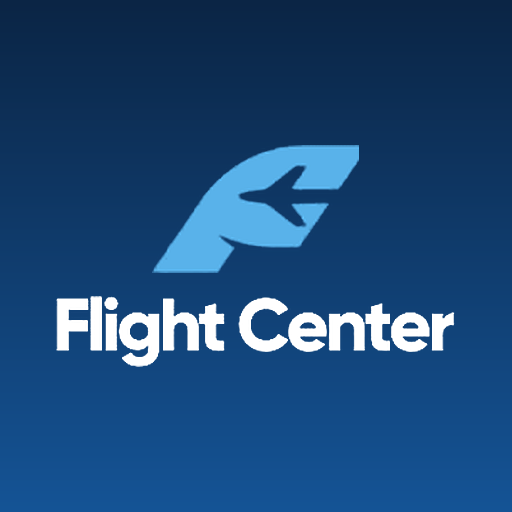
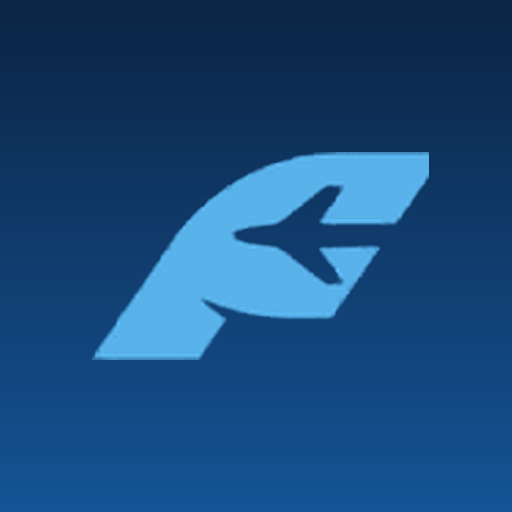
Volver al ícono anterior de la app (solo el ala)
Claude-Session: https://claude.ai/code/session_01Lyf4LqGimnUmXxuqAWNeBh

Changed region(s): [[0.0938, 0.2812, 0.9062, 0.7188], [0.3125, 0.4688, 0.3438, 0.5]]

diff --git a/servidor/public/sw.js b/servidor/public/sw.js
@@ -1,8 +1,8 @@
 // Service worker de Flight Center: permite instalar la página como app.
 // La página siempre se pide primero a la red (para tener los datos al día);
 // si no hay conexión se muestra la última versión guardada.
-const CACHE = 'flight-center-v2';
-const BASE = ['./', 'manifest.webmanifest', 'icono-192.png?v=2', 'icono-512.png?v=2', 'apple-touch-icon.png', 'favicon.png'];
+const CACHE = 'flight-center-v3';
+const BASE = ['./', 'manifest.webmanifest', 'icono-192.png?v=3', 'icono-512.png?v=3', 'apple-touch-icon.png', 'favicon.png'];
 
 self.addEventListener('install', (e) => {
   e.waitUntil(caches.open(CACHE).then((c) => c.addAll(BASE)).then(() => self.skipWaiting()));

diff --git a/src/pwa/sw.js b/src/pwa/sw.js
@@ -1,8 +1,8 @@
 // Service worker de Flight Center: permite instalar la página como app.
 // La página siempre se pide primero a la red (para tener los datos al día);
 // si no hay conexión se muestra la última versión guardada.
-const CACHE = 'flight-center-v2';
-const BASE = ['./', 'manifest.webmanifest', 'icono-192.png?v=2', 'icono-512.png?v=2', 'apple-touch-icon.png', 'favicon.png'];
+const CACHE = 'flight-center-v3';
+const BASE = ['./', 'manifest.webmanifest', 'icono-192.png?v=3', 'icono-512.png?v=3', 'apple-touch-icon.png', 'favicon.png'];
 
 self.addEventListener('install', (e) => {
   e.waitUntil(caches.open(CACHE).then((c) => c.addAll(BASE)).then(() => self.skipWaiting()));

diff --git a/sw.js b/sw.js
@@ -1,8 +1,8 @@
 // Service worker de Flight Center: permite instalar la página como app.
 // La página siempre se pide primero a la red (para tener los datos al día);
 // si no hay conexión se muestra la última versión guardada.
-const CACHE = 'flight-center-v2';
-const BASE = ['./', 'manifest.webmanifest', 'icono-192.png?v=2', 'icono-512.png?v=2', 'apple-touch-icon.png', 'favicon.png'];
+const CACHE = 'flight-center-v3';
+const BASE = ['./', 'manifest.webmanifest', 'icono-192.png?v=3', 'icono-512.png?v=3', 'apple-touch-icon.png', 'favicon.png'];
 
 self.addEventListener('install', (e) => {
   e.waitUntil(caches.open(CACHE).then((c) => c.addAll(BASE)).then(() => self.skipWaiting()));

diff --git a/index.html b/index.html
@@ -4,9 +4,9 @@
 <meta charset="utf-8">
 <meta name="viewport" content="width=device-width, initial-scale=1, viewport-fit=cover">
 <title>Flight Center Reservas</title>
-<link rel="icon" type="image/png" href="favicon.png?v=2">
+<link rel="icon" type="image/png" href="favicon.png?v=3">
 <link rel="manifest" href="manifest.webmanifest">
-<link rel="apple-touch-icon" href="apple-touch-icon.png?v=2">
+<link rel="apple-touch-icon" href="apple-touch-icon.png?v=3">
 <meta name="theme-color" content="#0b2545">
 <meta name="mobile-web-app-capable" content="yes">
 <meta name="apple-mobile-web-app-capable" content="yes">

diff --git a/servidor/public/index.html b/servidor/public/index.html
@@ -4,9 +4,9 @@
 <meta charset="utf-8">
 <meta name="viewport" content="width=device-width, initial-scale=1, viewport-fit=cover">
 <title>Flight Center Reservas</title>
-<link rel="icon" type="image/png" href="favicon.png?v=2">
+<link rel="icon" type="image/png" href="favicon.png?v=3">
 <link rel="manifest" href="manifest.webmanifest">
-<link rel="apple-touch-icon" href="apple-touch-icon.png?v=2">
+<link rel="apple-touch-icon" href="apple-touch-icon.png?v=3">
 <meta name="theme-color" content="#0b2545">
 <meta name="mobile-web-app-capable" content="yes">
 <meta name="apple-mobile-web-app-capable" content="yes">

diff --git a/build.py b/build.py
@@ -17,9 +17,9 @@ def pagina(cliente, store=True):
 <meta charset="utf-8">
 <meta name="viewport" content="width=device-width, initial-scale=1, viewport-fit=cover">
 <title>Flight Center Reservas</title>
-<link rel="icon" type="image/png" href="favicon.png?v=2">
+<link rel="icon" type="image/png" href="favicon.png?v=3">
 <link rel="manifest" href="manifest.webmanifest">
-<link rel="apple-touch-icon" href="apple-touch-icon.png?v=2">
+<link rel="apple-touch-icon" href="apple-touch-icon.png?v=3">
 <meta name="theme-color" content="#0b2545">
 <meta name="mobile-web-app-capable" content="yes">
 <meta name="apple-mobile-web-app-capable" content="yes">
